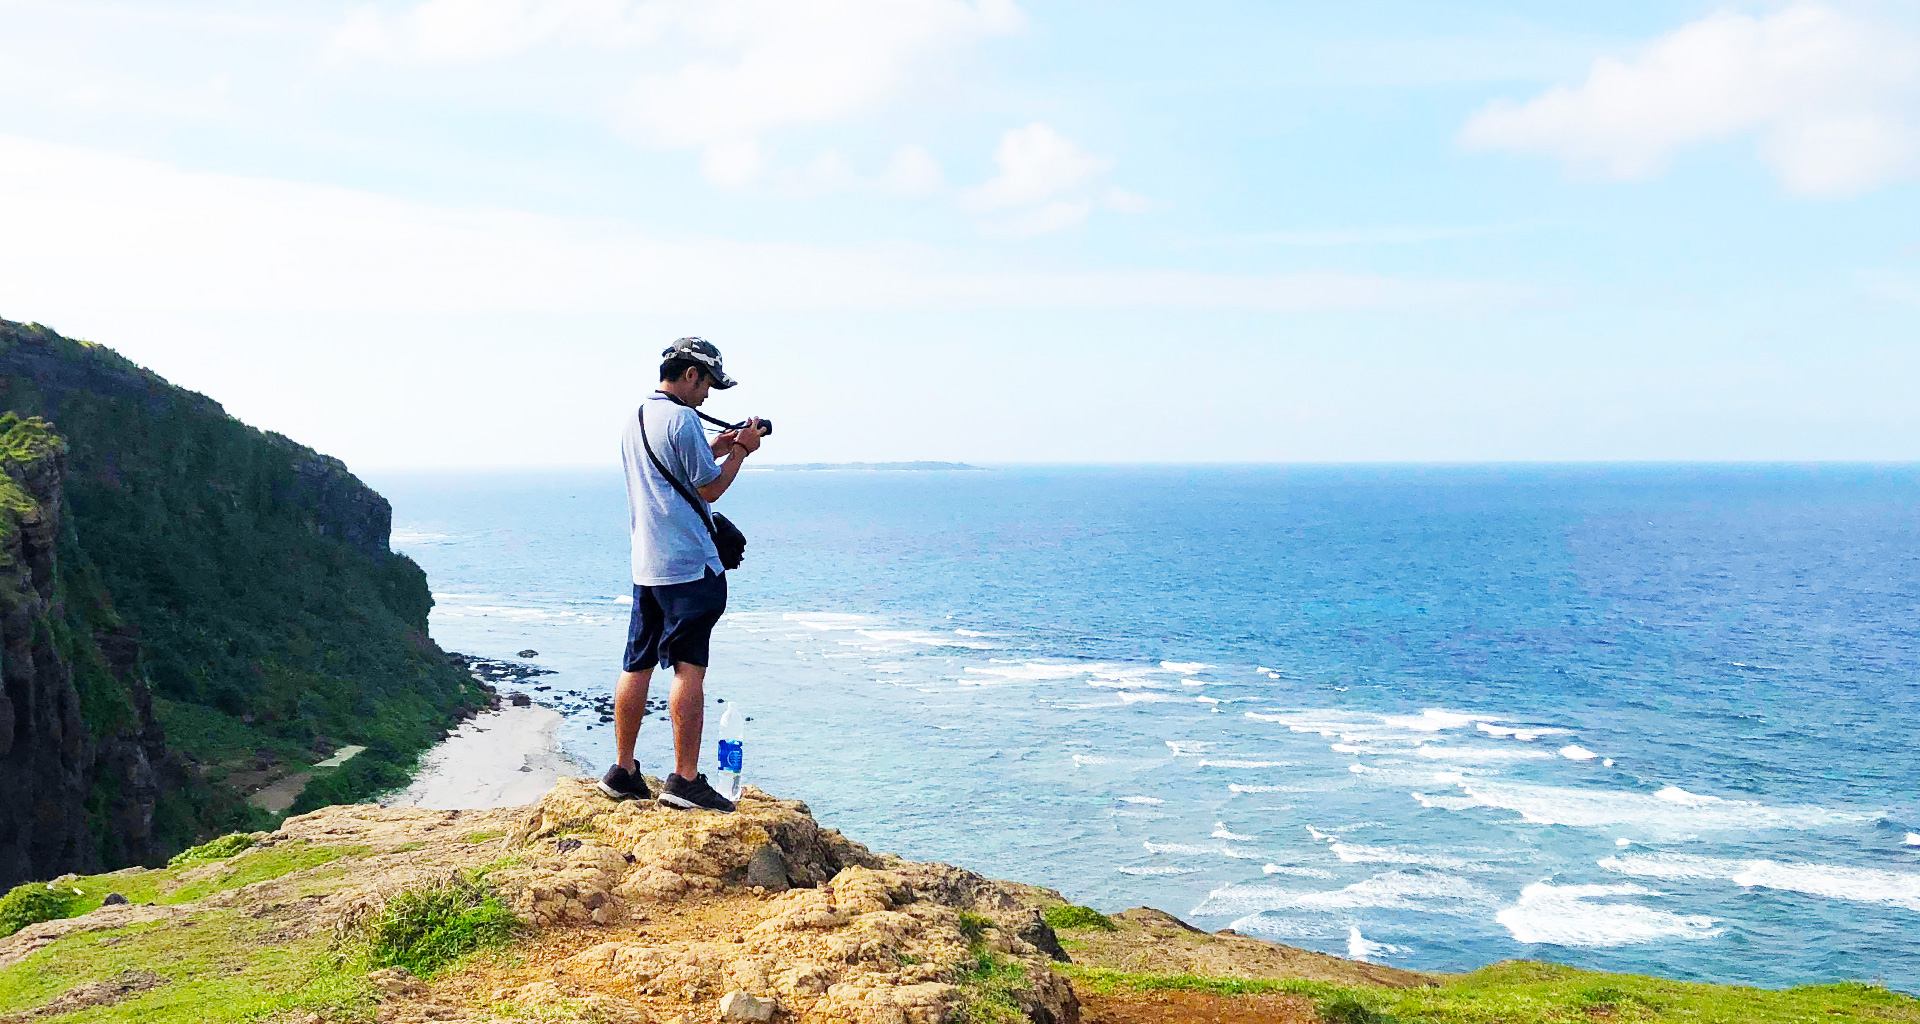
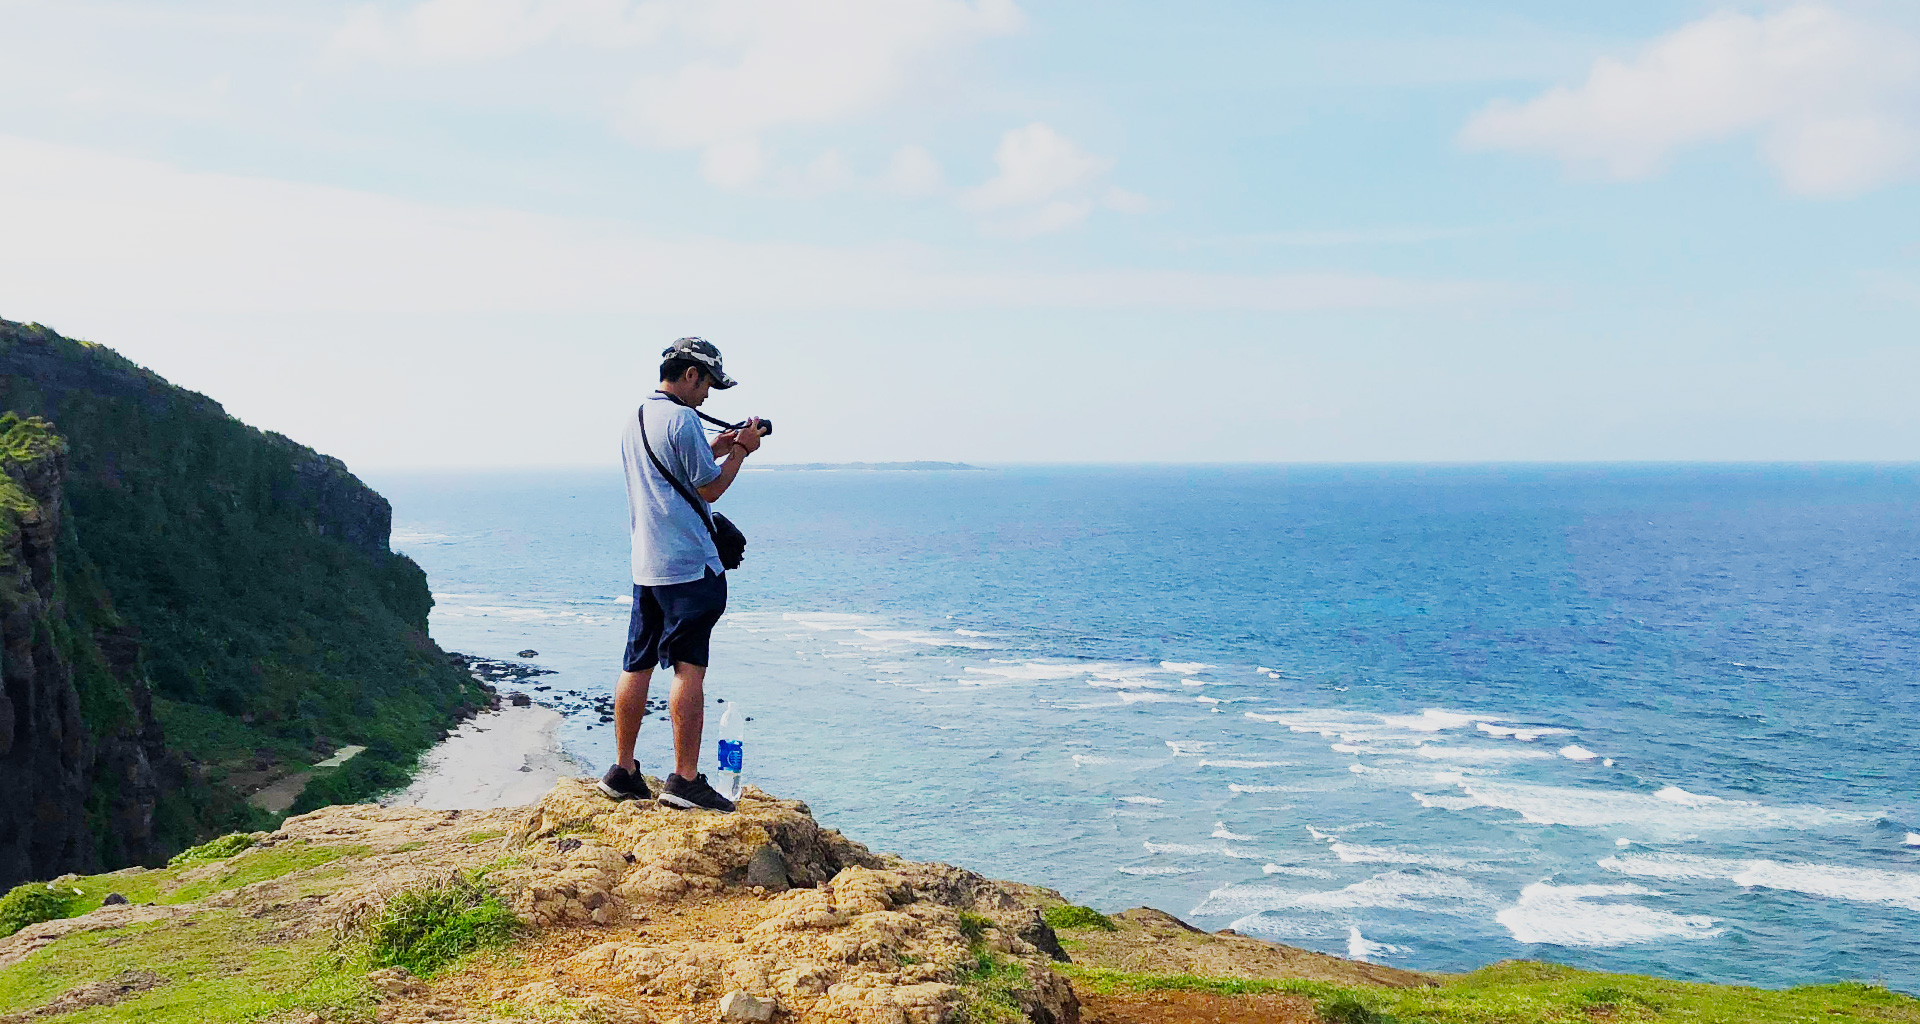
home

diff --git a/src/assets/css/_home.scss b/src/assets/css/_home.scss
@@ -1,38 +1,114 @@
 @import "variables";
 
 #home {
-    background: #fff url("#{$staticUrl}/sites/img/background.jpg") center no-repeat;
+    position: fixed;
+    top: 0;
+    left: 0;
+    width: 100%;
+    min-height: 100%;
+    background: #fff url("#{$staticUrl}/sites/img/background.jpg") 35% 35% no-repeat;
     background-size: cover;
-
-    &::before {
-        position: absolute;
-        top: 0;
-        left: 0;
-        display: block;
-        width: 100%;
-        height: 100%;
-        background-color: rgba(0, 0, 0, .1);
-        content: '';
-    }
+    overflow-x: hidden;
+    overflow-y: auto;
 
     h1 {
         position: absolute;
-        top: 0;
-        right: 50%;
+        top: 5%;
+        left: 35%;
         font-size: 50px;
-        font-weight: 900;
         color: #fff;
-    }
-}
 
-@media (max-width: $md-max-width) {
-    #home {
-        background-position-x: 33.33%;
-    }
-}
+        @media (max-height: 640px) {
+            top: 25px;
+        }
 
-@media (max-height: 529px) {
-    #home {
-        background-position-y: 33.33%;
+        @media (max-width: 376px) {
+            right: 20px;
+            left: unset;
+        }
+    }
+
+    blockquote {
+        position: absolute;
+        top: 18%;
+        left: 28%;
+        border: 16px solid #fff;
+        width: 360px;
+        height: 360px;
+
+        @media (max-width: 818.18px) {
+            left: calc(50% - 180px);
+        }
+
+        @media (max-width: 376px) {
+            left: 0;
+            width: 100%;
+            border-left: none;
+            border-right: none;
+        }
+
+        @media (max-height: 640px) {
+            top: 115px;
+        }
+    }
+
+    nav {
+        position: absolute;
+        top: calc(18% + 360px - 100px);
+        left: 28%;
+        width: 360px;
+        padding-right: 16px;
+
+        .nav-item {
+            margin: 20px 0;
+            text-align: right;
+
+            a {
+                font-size: 36px;
+
+                span {
+                    padding: 10px 20px;
+                    color: #fff;
+                    white-space: nowrap;
+                }
+
+                &:hover {
+                    text-decoration: none;
+
+                    span {
+                        background-color: #fff;
+                        color: #000;
+                    }
+                }
+            }
+
+            &:not(:first-child) {
+                margin-right: -36px;
+            }
+        }
+
+        .nav-item-divider {
+            height: 20px;
+        }
+
+        @media (max-width: 818.18px) {
+            left: calc(50% - 180px);
+        }
+
+        @media (max-width: 376px) {
+            left: 0;
+            width: 100%;
+            padding-right: 0;
+
+            .nav-item {
+                &:not(:first-child) {
+                    margin-right: 0;
+                }
+            }
+        }
+
+        @media (max-height: 640px) {
+            top: 375px;
+        }
     }
 }

diff --git a/public/index.html b/public/index.html
@@ -25,7 +25,7 @@
     <meta name="msapplication-TileColor" content="#ffffff">
     <meta name="msapplication-TileImage" content="<%= VUE_APP_STATIC_URL %>/sites/favicons/ms-icon-144x144.png">
     <meta name="theme-color" content="#ffffff">
-    <link rel="stylesheet" href="https://fonts.googleapis.com/css?family=Nunito:200,200i,300,300i,400,400i,600,600i,700,700i,800,800i,900,900i&display=swap&subset=latin-ext,vietnamese">
+    <link rel="stylesheet" href="https://fonts.googleapis.com/css?family=Anton&display=swap">
     <link rel="stylesheet" href="<%= BASE_URL %>vendor/fontawesome-free/css/all.min.css">
     <link rel="stylesheet" href="<%= BASE_URL %>vendor/animate.css/animate.min.css">
     <link rel="stylesheet" href="<%= BASE_URL %>vendor/bootstrap/css/bootstrap.min.css">

diff --git a/src/views/pages/Home.vue b/src/views/pages/Home.vue
@@ -1,6 +1,19 @@
 <template lang="pug">
-    #home.fullscreen
+    #home
         h1 LINHNTAIM
+        blockquote
+        nav
+            .nav-item
+                a(href="https://hey.linhntaim.com" target="_blank")
+                    span hey
+            .nav-item-divider
+            .nav-item
+                a(href="https://resume.linhntaim.com" target="_blank")
+                    span my resume
+            .nav-item
+                a(href="https://pinkspirit.linhntaim.com" target="_blank")
+                    span pinkspirit
+            .nav-item-divider
 </template>
 
 <script>

diff --git a/src/assets/css/_global.scss b/src/assets/css/_global.scss
@@ -1,7 +1,7 @@
 @import "variables";
 
 body {
-    font-family: 'Nunito', sans-serif;
+    font-family: 'Anton', cursive, sans-serif;
 }
 
 .fullscreen {
